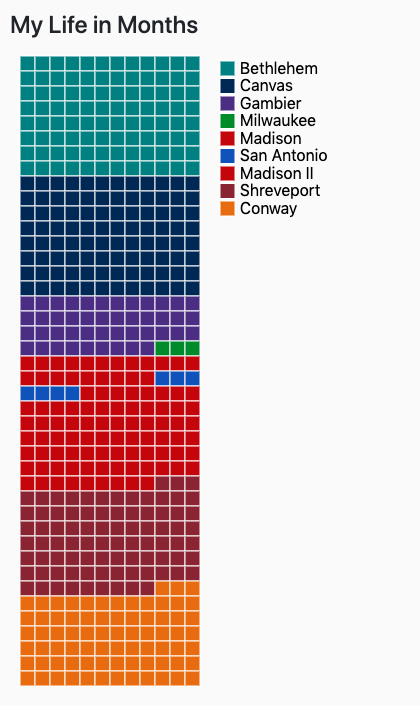
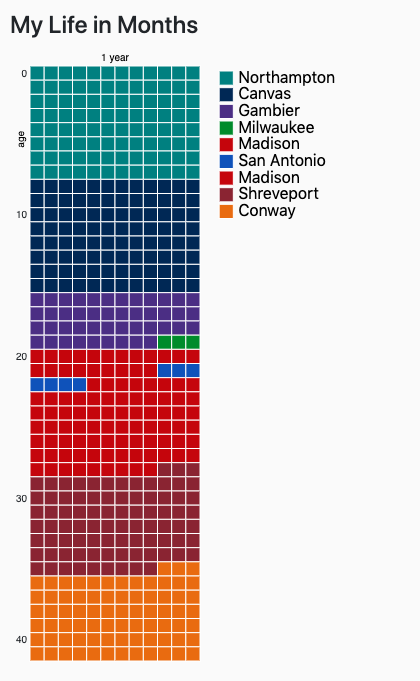
Fixing styling, regenerating some images

Changed region(s): [[0.031, 0.0, 0.8048, 0.9868]]

diff --git a/index.html b/index.html
@@ -40,8 +40,9 @@
           Edit the table below to map out where you've lived, your
           career path, trials and tribulations, or other meaningful life events.
           Then, click <strong>Download</strong> to save your chart!</p>
+
           <div class="alert alert-warning alert-dismissible show fade" role="alert">
-            <strong>Warning!</strong> The download function will not work in the Facebook browser.
+            <strong>Warning!</strong> The download function will not work in the Facebook mobile browser.
             Please <a href="https://www.phonearena.com/news/Facebook-Messenger-open-external-safari-chrome-browser_id114893">open this
             page in either Safari or Chrome</a> to be able to save your chart.
             <button type="button" class="close" data-dismiss="alert" aria-label="Close">
@@ -53,8 +54,7 @@
     </div>
 
     <div class="row">
-      <div class="col-md-6">
-
+      <div class="col-md-6 chart-div">
         <table id="mainTable" class="table table-striped">
           <thead><tr><th>Title</th>
             <th colspan="3"><input type="text" id="waffle-title-input" class="chart-title" value="My Life in Months"></input></th></thead>
@@ -74,13 +74,18 @@
         </div>
         <div id="showMonthsAlertHere">
         </div>
-        <p><button id="addrow" type="button" class="btn btn-primary">Add Event</button>
+        <div class="form-row align-items-center">
+          <div class="col-4 my-1">
+            <button id="addrow" type="button" class="btn btn-primary">Add Event</button>
         <!--  <button id="reset" type="button" class="btn btn-danger">Reset Chart</button> -->
-        </p>
-        <p class="custom-control custom-switch">
-          <input type="checkbox" class="custom-control-input" id="togglefuture">
-          <label class="custom-control-label" for="togglefuture">Extend to 80 Years</label>
-        </p>
+          </div>
+          <div class="col-auto my-1">
+            <div class="custom-control custom-switch">
+              <input type="checkbox" class="custom-control-input" id="togglefuture">
+              <label class="custom-control-label" for="togglefuture">Extend Chart to 80 Years</label>
+            </div>
+          </div>
+        </div>
       </div>
 
 

diff --git a/assets/scripts/months.js b/assets/scripts/months.js
@@ -1,12 +1,12 @@
 $(document).ready(function() {
   var goadrichdata = [
-    { "name": "Bethlehem", "value":96},
+    { "name": "Northampton", "value":96},
     { "name": "Canvas", "value":96},
     { "name": "Gambier", "value":45},
     { "name": "Milwaukee", "value":3},
     { "name": "Madison", "value":21},
     { "name": "San Antonio", "value":7},
-    { "name": "Madison II", "value":77},
+    { "name": "Madison", "value":77},
     { "name": "Shreveport", "value":84},
     { "name": "Conway", "value":75}
   ];
